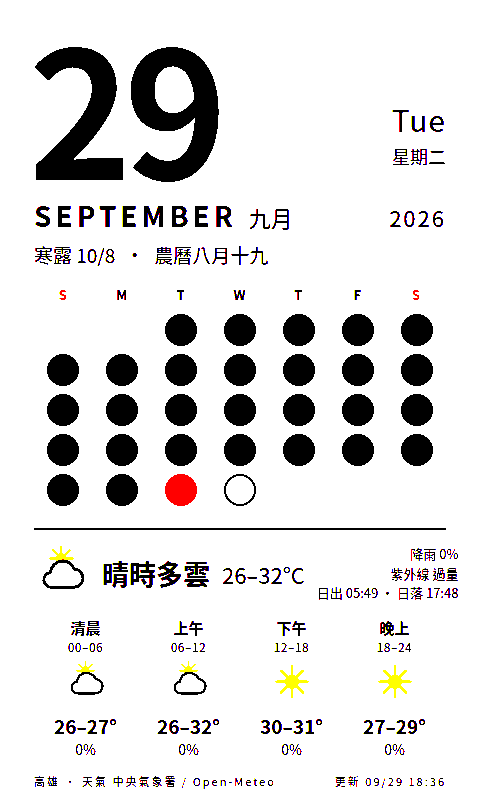
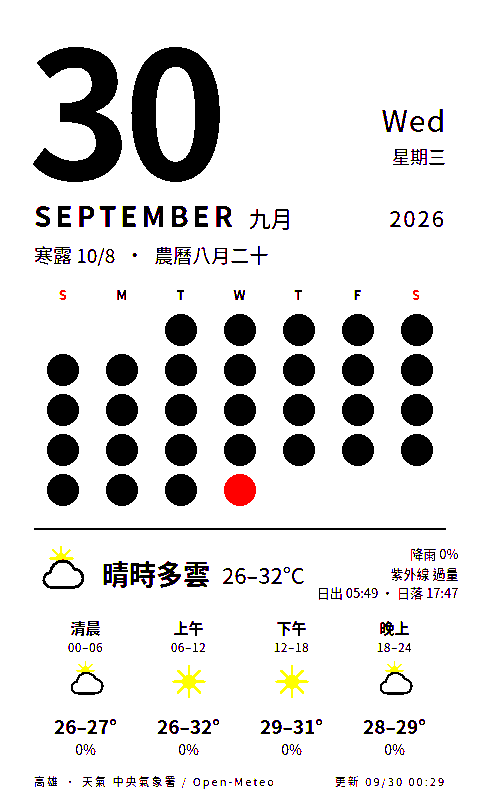
deploy: cf7d1051eb6821bc691ba0ade4beb12cdf9fe0ef

diff --git a/calendar.html b/calendar.html
@@ -47,16 +47,16 @@
 </style></head>
 <body><div class="page">
   <div class="head">
-    <div class="num">29</div>
-    <div class="wd"><div class="en">Tue</div><div class="zh">星期二</div></div>
+    <div class="num">30</div>
+    <div class="wd"><div class="en">Wed</div><div class="zh">星期三</div></div>
   </div>
   <div class="month"><span class="en">SEPTEMBER</span><span class="zh">九月</span><span class="yr">2026</span></div>
-  <div class="today"><span class="lunar">寒露 10/8</span><span>·</span><span class="lunar">農曆八月十九</span></div>
-  <div class="grid"><div class="h we">S</div><div class="h">M</div><div class="h">T</div><div class="h">W</div><div class="h">T</div><div class="h">F</div><div class="h we">S</div><div class="dot empty"></div><div class="dot empty"></div><div class="dot past" title="1"></div><div class="dot past" title="2"></div><div class="dot past" title="3"></div><div class="dot past" title="4"></div><div class="dot past" title="5"></div><div class="dot past" title="6"></div><div class="dot past" title="7"></div><div class="dot past" title="8"></div><div class="dot past" title="9"></div><div class="dot past" title="10"></div><div class="dot past" title="11"></div><div class="dot past" title="12"></div><div class="dot past" title="13"></div><div class="dot past" title="14"></div><div class="dot past" title="15"></div><div class="dot past" title="16"></div><div class="dot past" title="17"></div><div class="dot past" title="18"></div><div class="dot past" title="19"></div><div class="dot past" title="20"></div><div class="dot past" title="21"></div><div class="dot past" title="22"></div><div class="dot past" title="23"></div><div class="dot past" title="24"></div><div class="dot past" title="25"></div><div class="dot past" title="26"></div><div class="dot past" title="27"></div><div class="dot past" title="28"></div><div class="dot now" title="29"></div><div class="dot future" title="30"></div></div>
+  <div class="today"><span class="lunar">寒露 10/8</span><span>·</span><span class="lunar">農曆八月二十</span></div>
+  <div class="grid"><div class="h we">S</div><div class="h">M</div><div class="h">T</div><div class="h">W</div><div class="h">T</div><div class="h">F</div><div class="h we">S</div><div class="dot empty"></div><div class="dot empty"></div><div class="dot past" title="1"></div><div class="dot past" title="2"></div><div class="dot past" title="3"></div><div class="dot past" title="4"></div><div class="dot past" title="5"></div><div class="dot past" title="6"></div><div class="dot past" title="7"></div><div class="dot past" title="8"></div><div class="dot past" title="9"></div><div class="dot past" title="10"></div><div class="dot past" title="11"></div><div class="dot past" title="12"></div><div class="dot past" title="13"></div><div class="dot past" title="14"></div><div class="dot past" title="15"></div><div class="dot past" title="16"></div><div class="dot past" title="17"></div><div class="dot past" title="18"></div><div class="dot past" title="19"></div><div class="dot past" title="20"></div><div class="dot past" title="21"></div><div class="dot past" title="22"></div><div class="dot past" title="23"></div><div class="dot past" title="24"></div><div class="dot past" title="25"></div><div class="dot past" title="26"></div><div class="dot past" title="27"></div><div class="dot past" title="28"></div><div class="dot past" title="29"></div><div class="dot now" title="30"></div></div>
   <div class="wx"><div class="line">
     <div class="wxhead"><svg viewBox="0 0 64 68" xmlns="http://www.w3.org/2000/svg"><g transform="translate(12 -4) scale(.6)"><circle cx="32" cy="32" r="11" fill="#f5c400"/><g stroke="#f5c400" stroke-width="4" stroke-linecap="round"><line x1="32" y1="32" x2="32" y2="8" transform="rotate(0 32 32)"/><line x1="32" y1="32" x2="32" y2="8" transform="rotate(45 32 32)"/><line x1="32" y1="32" x2="32" y2="8" transform="rotate(90 32 32)"/><line x1="32" y1="32" x2="32" y2="8" transform="rotate(135 32 32)"/><line x1="32" y1="32" x2="32" y2="8" transform="rotate(180 32 32)"/><line x1="32" y1="32" x2="32" y2="8" transform="rotate(225 32 32)"/><line x1="32" y1="32" x2="32" y2="8" transform="rotate(270 32 32)"/><line x1="32" y1="32" x2="32" y2="8" transform="rotate(315 32 32)"/></g></g><path d="M20 50h26a11 11 0 0 0 1-22 15 15 0 0 0-29 4 9 9 0 0 0 2 18z" fill="#fff" stroke="#000" stroke-width="3.5" stroke-linejoin="round"/></svg><span class="desc">晴時多雲</span><span class="temp">26–32°C</span>
-      <div class="meta">降雨 0%<br>紫外線 過量<br>日出 05:49 · 日落 17:48</div></div>
-    <div class="slots"><div class="slot"><div class="n">清晨</div><div class="hrs">00–06</div><svg viewBox="0 0 64 68" xmlns="http://www.w3.org/2000/svg"><g transform="translate(12 -4) scale(.6)"><circle cx="32" cy="32" r="11" fill="#f5c400"/><g stroke="#f5c400" stroke-width="4" stroke-linecap="round"><line x1="32" y1="32" x2="32" y2="8" transform="rotate(0 32 32)"/><line x1="32" y1="32" x2="32" y2="8" transform="rotate(45 32 32)"/><line x1="32" y1="32" x2="32" y2="8" transform="rotate(90 32 32)"/><line x1="32" y1="32" x2="32" y2="8" transform="rotate(135 32 32)"/><line x1="32" y1="32" x2="32" y2="8" transform="rotate(180 32 32)"/><line x1="32" y1="32" x2="32" y2="8" transform="rotate(225 32 32)"/><line x1="32" y1="32" x2="32" y2="8" transform="rotate(270 32 32)"/><line x1="32" y1="32" x2="32" y2="8" transform="rotate(315 32 32)"/></g></g><path d="M20 50h26a11 11 0 0 0 1-22 15 15 0 0 0-29 4 9 9 0 0 0 2 18z" fill="#fff" stroke="#000" stroke-width="3.5" stroke-linejoin="round"/></svg><div class="t">26–27°</div><div class="p dry">0%</div></div><div class="slot"><div class="n">上午</div><div class="hrs">06–12</div><svg viewBox="0 0 64 68" xmlns="http://www.w3.org/2000/svg"><g transform="translate(12 -4) scale(.6)"><circle cx="32" cy="32" r="11" fill="#f5c400"/><g stroke="#f5c400" stroke-width="4" stroke-linecap="round"><line x1="32" y1="32" x2="32" y2="8" transform="rotate(0 32 32)"/><line x1="32" y1="32" x2="32" y2="8" transform="rotate(45 32 32)"/><line x1="32" y1="32" x2="32" y2="8" transform="rotate(90 32 32)"/><line x1="32" y1="32" x2="32" y2="8" transform="rotate(135 32 32)"/><line x1="32" y1="32" x2="32" y2="8" transform="rotate(180 32 32)"/><line x1="32" y1="32" x2="32" y2="8" transform="rotate(225 32 32)"/><line x1="32" y1="32" x2="32" y2="8" transform="rotate(270 32 32)"/><line x1="32" y1="32" x2="32" y2="8" transform="rotate(315 32 32)"/></g></g><path d="M20 50h26a11 11 0 0 0 1-22 15 15 0 0 0-29 4 9 9 0 0 0 2 18z" fill="#fff" stroke="#000" stroke-width="3.5" stroke-linejoin="round"/></svg><div class="t">26–32°</div><div class="p dry">0%</div></div><div class="slot"><div class="n">下午</div><div class="hrs">12–18</div><svg viewBox="0 0 64 68" xmlns="http://www.w3.org/2000/svg"><circle cx="32" cy="32" r="11" fill="#f5c400"/><g stroke="#f5c400" stroke-width="4" stroke-linecap="round"><line x1="32" y1="32" x2="32" y2="8" transform="rotate(0 32 32)"/><line x1="32" y1="32" x2="32" y2="8" transform="rotate(45 32 32)"/><line x1="32" y1="32" x2="32" y2="8" transform="rotate(90 32 32)"/><line x1="32" y1="32" x2="32" y2="8" transform="rotate(135 32 32)"/><line x1="32" y1="32" x2="32" y2="8" transform="rotate(180 32 32)"/><line x1="32" y1="32" x2="32" y2="8" transform="rotate(225 32 32)"/><line x1="32" y1="32" x2="32" y2="8" transform="rotate(270 32 32)"/><line x1="32" y1="32" x2="32" y2="8" transform="rotate(315 32 32)"/></g></svg><div class="t">30–31°</div><div class="p dry">0%</div></div><div class="slot"><div class="n">晚上</div><div class="hrs">18–24</div><svg viewBox="0 0 64 68" xmlns="http://www.w3.org/2000/svg"><circle cx="32" cy="32" r="11" fill="#f5c400"/><g stroke="#f5c400" stroke-width="4" stroke-linecap="round"><line x1="32" y1="32" x2="32" y2="8" transform="rotate(0 32 32)"/><line x1="32" y1="32" x2="32" y2="8" transform="rotate(45 32 32)"/><line x1="32" y1="32" x2="32" y2="8" transform="rotate(90 32 32)"/><line x1="32" y1="32" x2="32" y2="8" transform="rotate(135 32 32)"/><line x1="32" y1="32" x2="32" y2="8" transform="rotate(180 32 32)"/><line x1="32" y1="32" x2="32" y2="8" transform="rotate(225 32 32)"/><line x1="32" y1="32" x2="32" y2="8" transform="rotate(270 32 32)"/><line x1="32" y1="32" x2="32" y2="8" transform="rotate(315 32 32)"/></g></svg><div class="t">27–29°</div><div class="p dry">0%</div></div></div>
+      <div class="meta">降雨 0%<br>紫外線 過量<br>日出 05:49 · 日落 17:47</div></div>
+    <div class="slots"><div class="slot"><div class="n">清晨</div><div class="hrs">00–06</div><svg viewBox="0 0 64 68" xmlns="http://www.w3.org/2000/svg"><g transform="translate(12 -4) scale(.6)"><circle cx="32" cy="32" r="11" fill="#f5c400"/><g stroke="#f5c400" stroke-width="4" stroke-linecap="round"><line x1="32" y1="32" x2="32" y2="8" transform="rotate(0 32 32)"/><line x1="32" y1="32" x2="32" y2="8" transform="rotate(45 32 32)"/><line x1="32" y1="32" x2="32" y2="8" transform="rotate(90 32 32)"/><line x1="32" y1="32" x2="32" y2="8" transform="rotate(135 32 32)"/><line x1="32" y1="32" x2="32" y2="8" transform="rotate(180 32 32)"/><line x1="32" y1="32" x2="32" y2="8" transform="rotate(225 32 32)"/><line x1="32" y1="32" x2="32" y2="8" transform="rotate(270 32 32)"/><line x1="32" y1="32" x2="32" y2="8" transform="rotate(315 32 32)"/></g></g><path d="M20 50h26a11 11 0 0 0 1-22 15 15 0 0 0-29 4 9 9 0 0 0 2 18z" fill="#fff" stroke="#000" stroke-width="3.5" stroke-linejoin="round"/></svg><div class="t">26–27°</div><div class="p dry">0%</div></div><div class="slot"><div class="n">上午</div><div class="hrs">06–12</div><svg viewBox="0 0 64 68" xmlns="http://www.w3.org/2000/svg"><circle cx="32" cy="32" r="11" fill="#f5c400"/><g stroke="#f5c400" stroke-width="4" stroke-linecap="round"><line x1="32" y1="32" x2="32" y2="8" transform="rotate(0 32 32)"/><line x1="32" y1="32" x2="32" y2="8" transform="rotate(45 32 32)"/><line x1="32" y1="32" x2="32" y2="8" transform="rotate(90 32 32)"/><line x1="32" y1="32" x2="32" y2="8" transform="rotate(135 32 32)"/><line x1="32" y1="32" x2="32" y2="8" transform="rotate(180 32 32)"/><line x1="32" y1="32" x2="32" y2="8" transform="rotate(225 32 32)"/><line x1="32" y1="32" x2="32" y2="8" transform="rotate(270 32 32)"/><line x1="32" y1="32" x2="32" y2="8" transform="rotate(315 32 32)"/></g></svg><div class="t">26–32°</div><div class="p dry">0%</div></div><div class="slot"><div class="n">下午</div><div class="hrs">12–18</div><svg viewBox="0 0 64 68" xmlns="http://www.w3.org/2000/svg"><circle cx="32" cy="32" r="11" fill="#f5c400"/><g stroke="#f5c400" stroke-width="4" stroke-linecap="round"><line x1="32" y1="32" x2="32" y2="8" transform="rotate(0 32 32)"/><line x1="32" y1="32" x2="32" y2="8" transform="rotate(45 32 32)"/><line x1="32" y1="32" x2="32" y2="8" transform="rotate(90 32 32)"/><line x1="32" y1="32" x2="32" y2="8" transform="rotate(135 32 32)"/><line x1="32" y1="32" x2="32" y2="8" transform="rotate(180 32 32)"/><line x1="32" y1="32" x2="32" y2="8" transform="rotate(225 32 32)"/><line x1="32" y1="32" x2="32" y2="8" transform="rotate(270 32 32)"/><line x1="32" y1="32" x2="32" y2="8" transform="rotate(315 32 32)"/></g></svg><div class="t">29–31°</div><div class="p dry">0%</div></div><div class="slot"><div class="n">晚上</div><div class="hrs">18–24</div><svg viewBox="0 0 64 68" xmlns="http://www.w3.org/2000/svg"><g transform="translate(12 -4) scale(.6)"><circle cx="32" cy="32" r="11" fill="#f5c400"/><g stroke="#f5c400" stroke-width="4" stroke-linecap="round"><line x1="32" y1="32" x2="32" y2="8" transform="rotate(0 32 32)"/><line x1="32" y1="32" x2="32" y2="8" transform="rotate(45 32 32)"/><line x1="32" y1="32" x2="32" y2="8" transform="rotate(90 32 32)"/><line x1="32" y1="32" x2="32" y2="8" transform="rotate(135 32 32)"/><line x1="32" y1="32" x2="32" y2="8" transform="rotate(180 32 32)"/><line x1="32" y1="32" x2="32" y2="8" transform="rotate(225 32 32)"/><line x1="32" y1="32" x2="32" y2="8" transform="rotate(270 32 32)"/><line x1="32" y1="32" x2="32" y2="8" transform="rotate(315 32 32)"/></g></g><path d="M20 50h26a11 11 0 0 0 1-22 15 15 0 0 0-29 4 9 9 0 0 0 2 18z" fill="#fff" stroke="#000" stroke-width="3.5" stroke-linejoin="round"/></svg><div class="t">28–29°</div><div class="p dry">0%</div></div></div>
   </div></div>
-  <div class="foot"><span>高雄 · 天氣 中央氣象署 / Open-Meteo</span><span>更新 09/29 18:36</span></div>
+  <div class="foot"><span>高雄 · 天氣 中央氣象署 / Open-Meteo</span><span>更新 09/30 00:29</span></div>
 </div></body></html>
